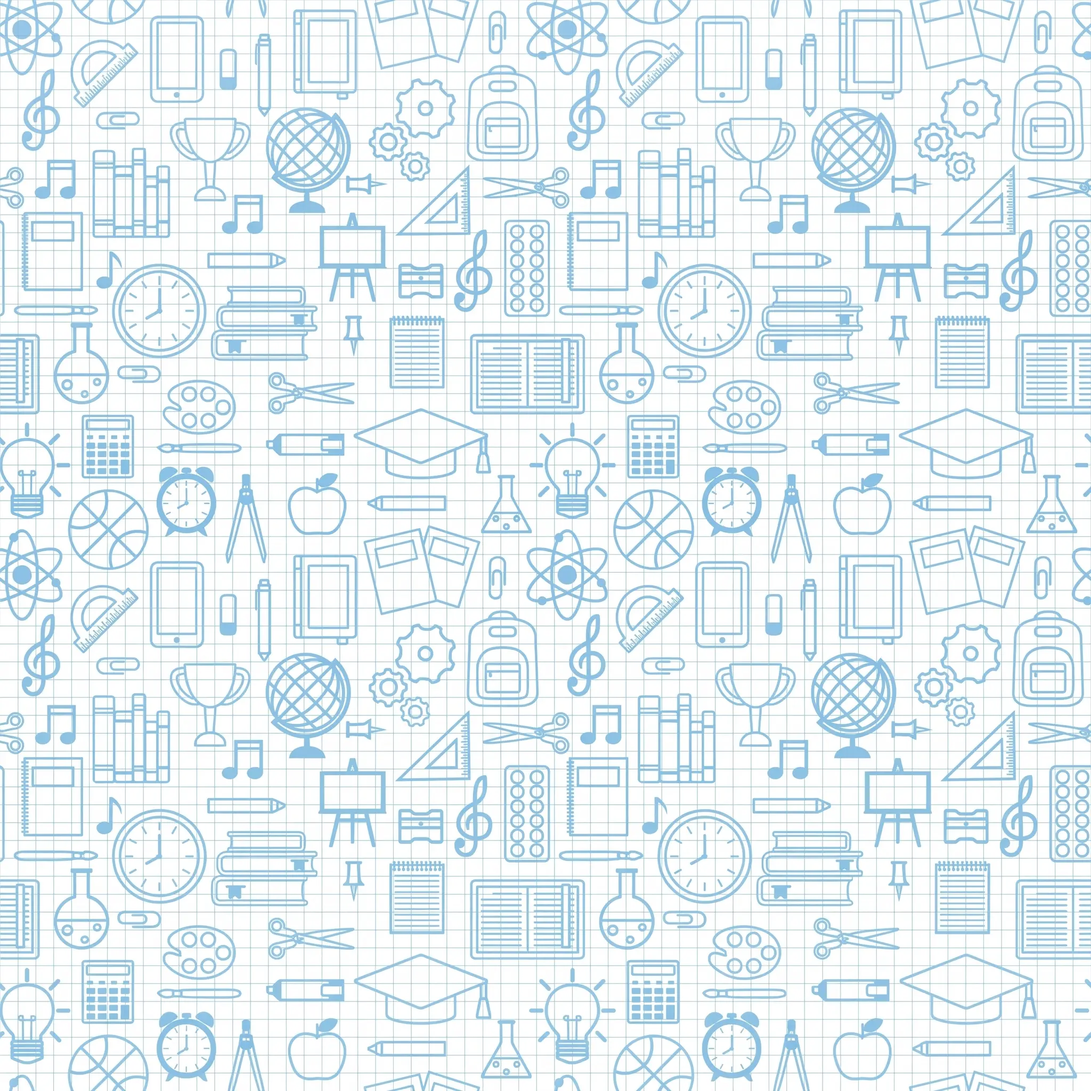
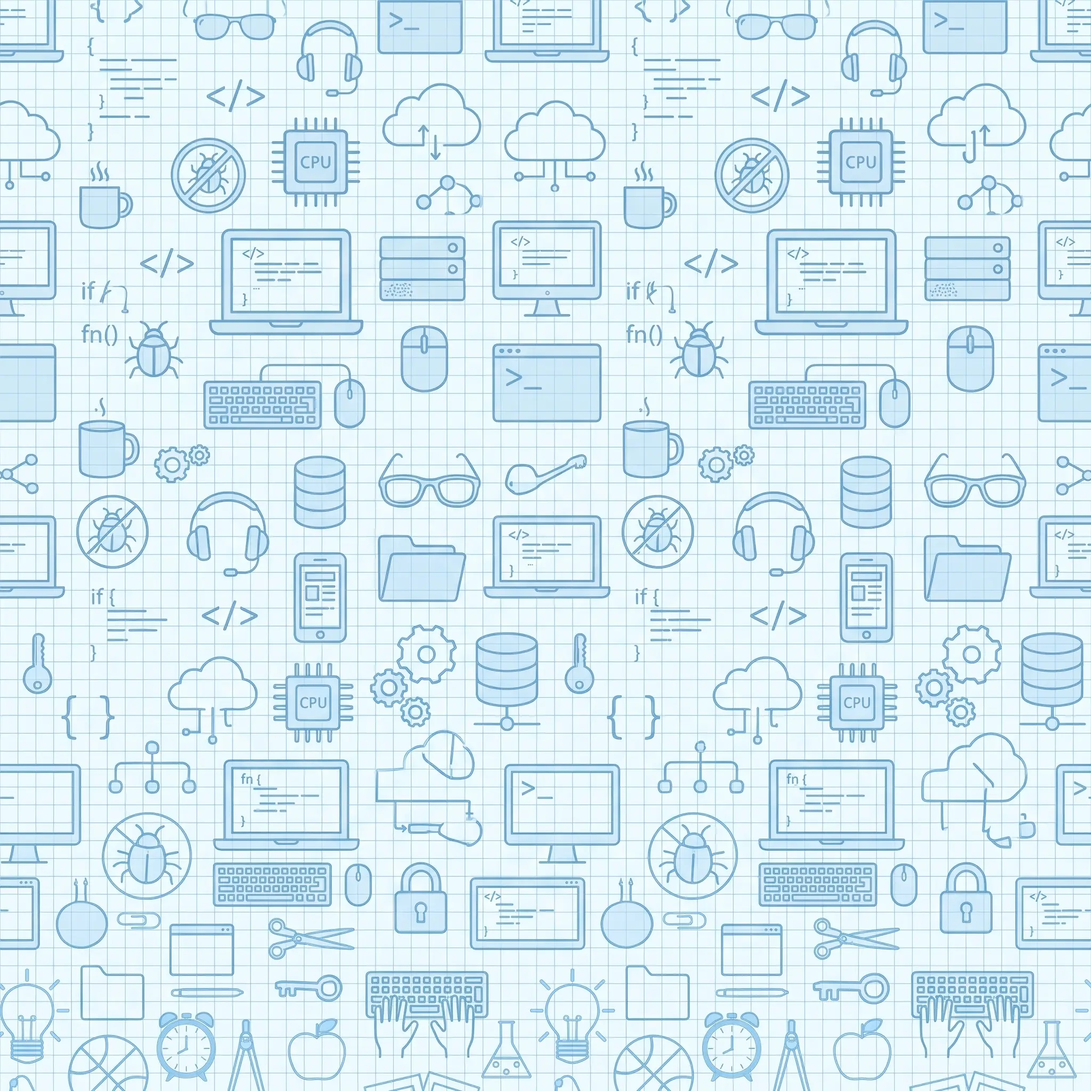
change background image

diff --git a/src/apps/web/app/(landing)/landing.css b/src/apps/web/app/(landing)/landing.css
@@ -1724,9 +1724,10 @@ html {
   pointer-events: none;
   /* fixed: la foto queda clavada a la ventana, no acompaña el scroll (la sección es larguísima
      porque el mazo se queda pegado). El desenfoque es para que no se entienda qué hay. */
-  background: url('/landing/img/fondo-utiles.webp') center / cover no-repeat fixed;
-  filter: blur(18px) saturate(1.6) contrast(1.08);
-  opacity: 0.5;
+  background: url('/landing/img/fondo-utiles.webp') center / cover no-repeat
+    fixed;
+  filter: blur(5px) saturate(1.6) contrast(1.08);
+  opacity: 0.2;
 }
 
 .equipo-wrapper {
